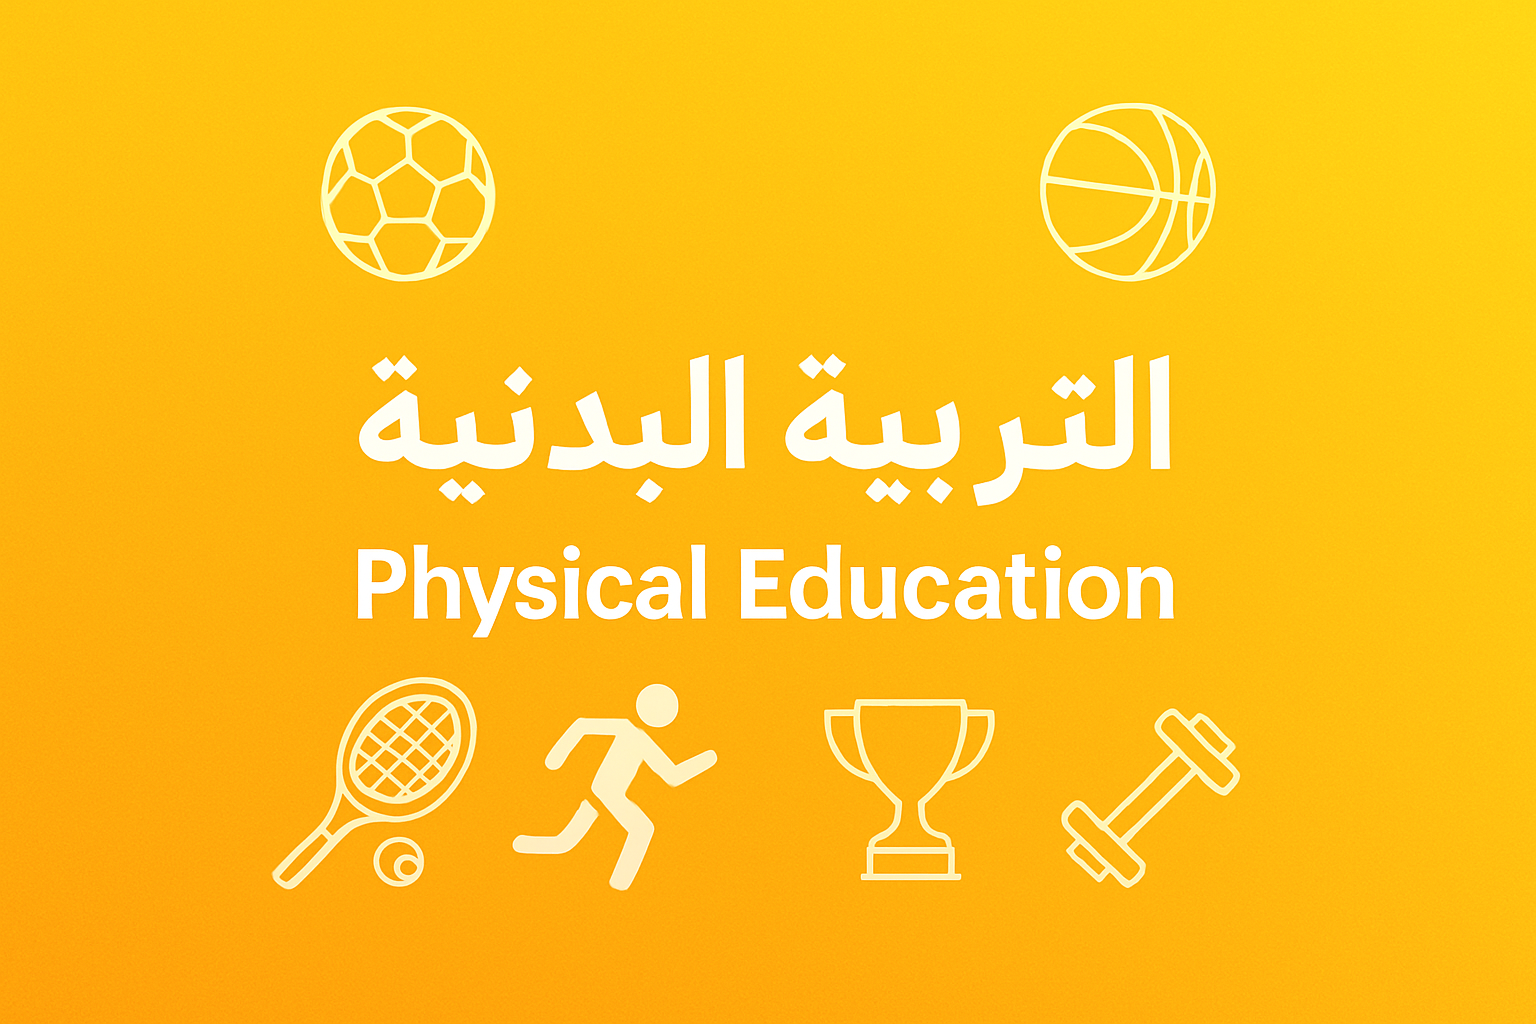
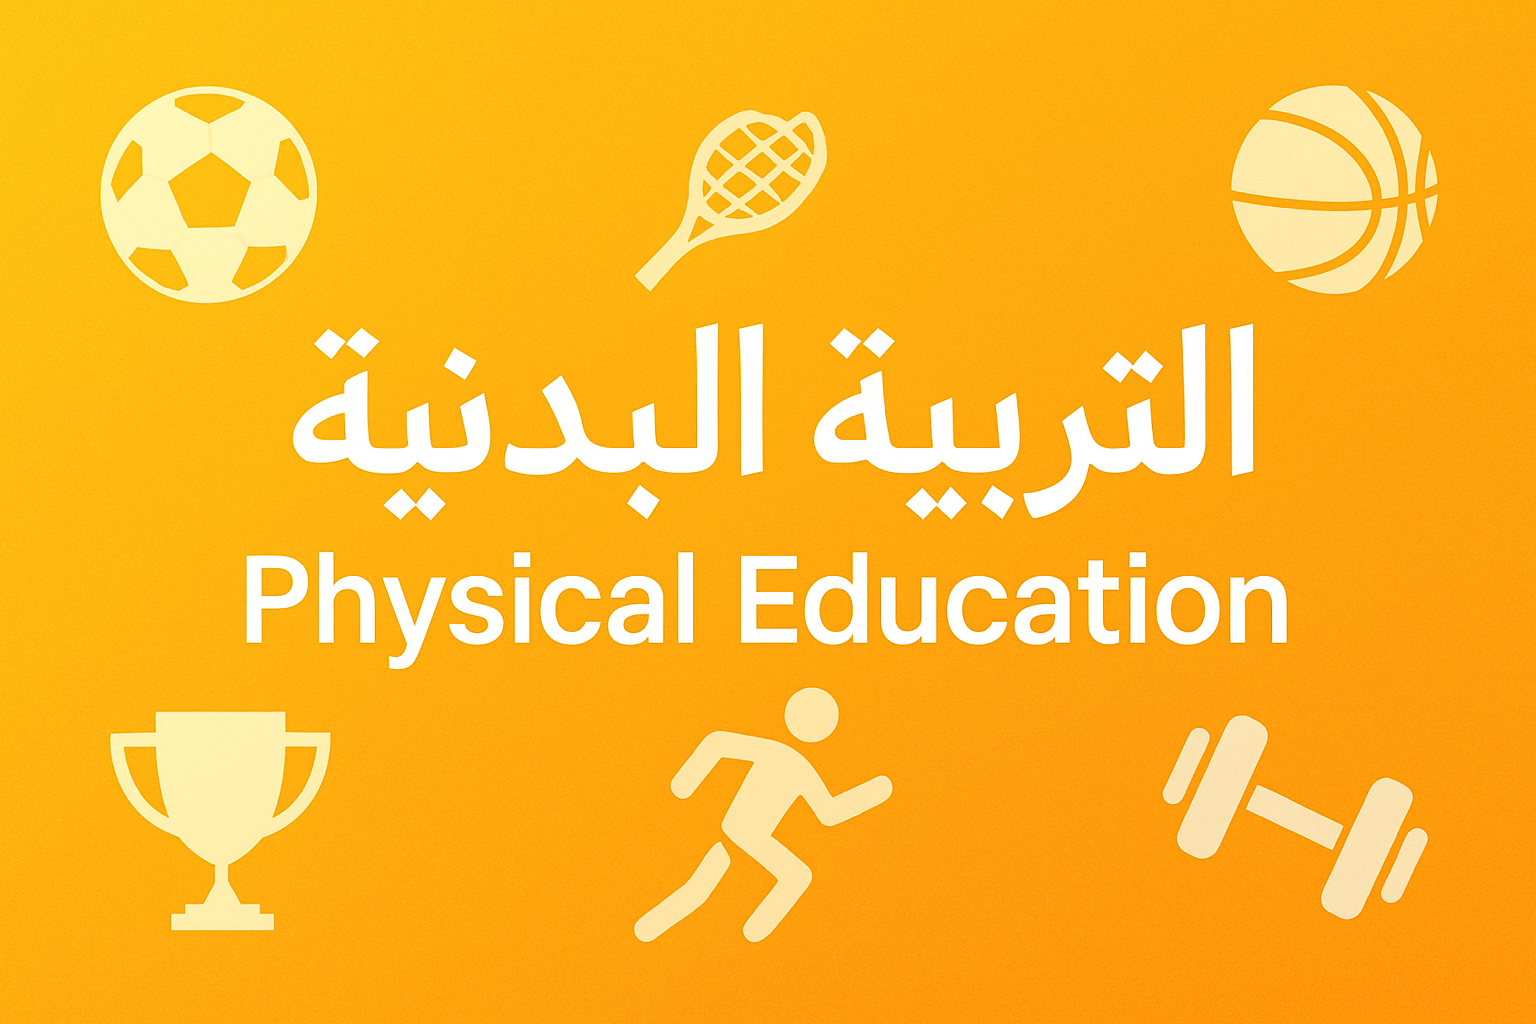
Checkpoint: Regenerated all 10 subject card images with consistent landscape aspect ratio and proper sizing to fit the card layout perfectly. All images now display uniformly without distortions or sizing issues. Verified robot animations work correctly with the new images across multiple subjects.

diff --git a/todo.md b/todo.md
@@ -122,3 +122,11 @@
 - [x] Test all 10 subjects with correct images and colors
 - [x] Verify robot animations work on new subjects
 
+
+
+## Image Sizing Fixes (Completed)
+- [x] Regenerate all 10 subject cards with consistent aspect ratio and sizing
+- [x] Ensure all images properly fit the card layout
+- [x] Test image display on home page
+- [x] Verify robot works correctly with new images
+
